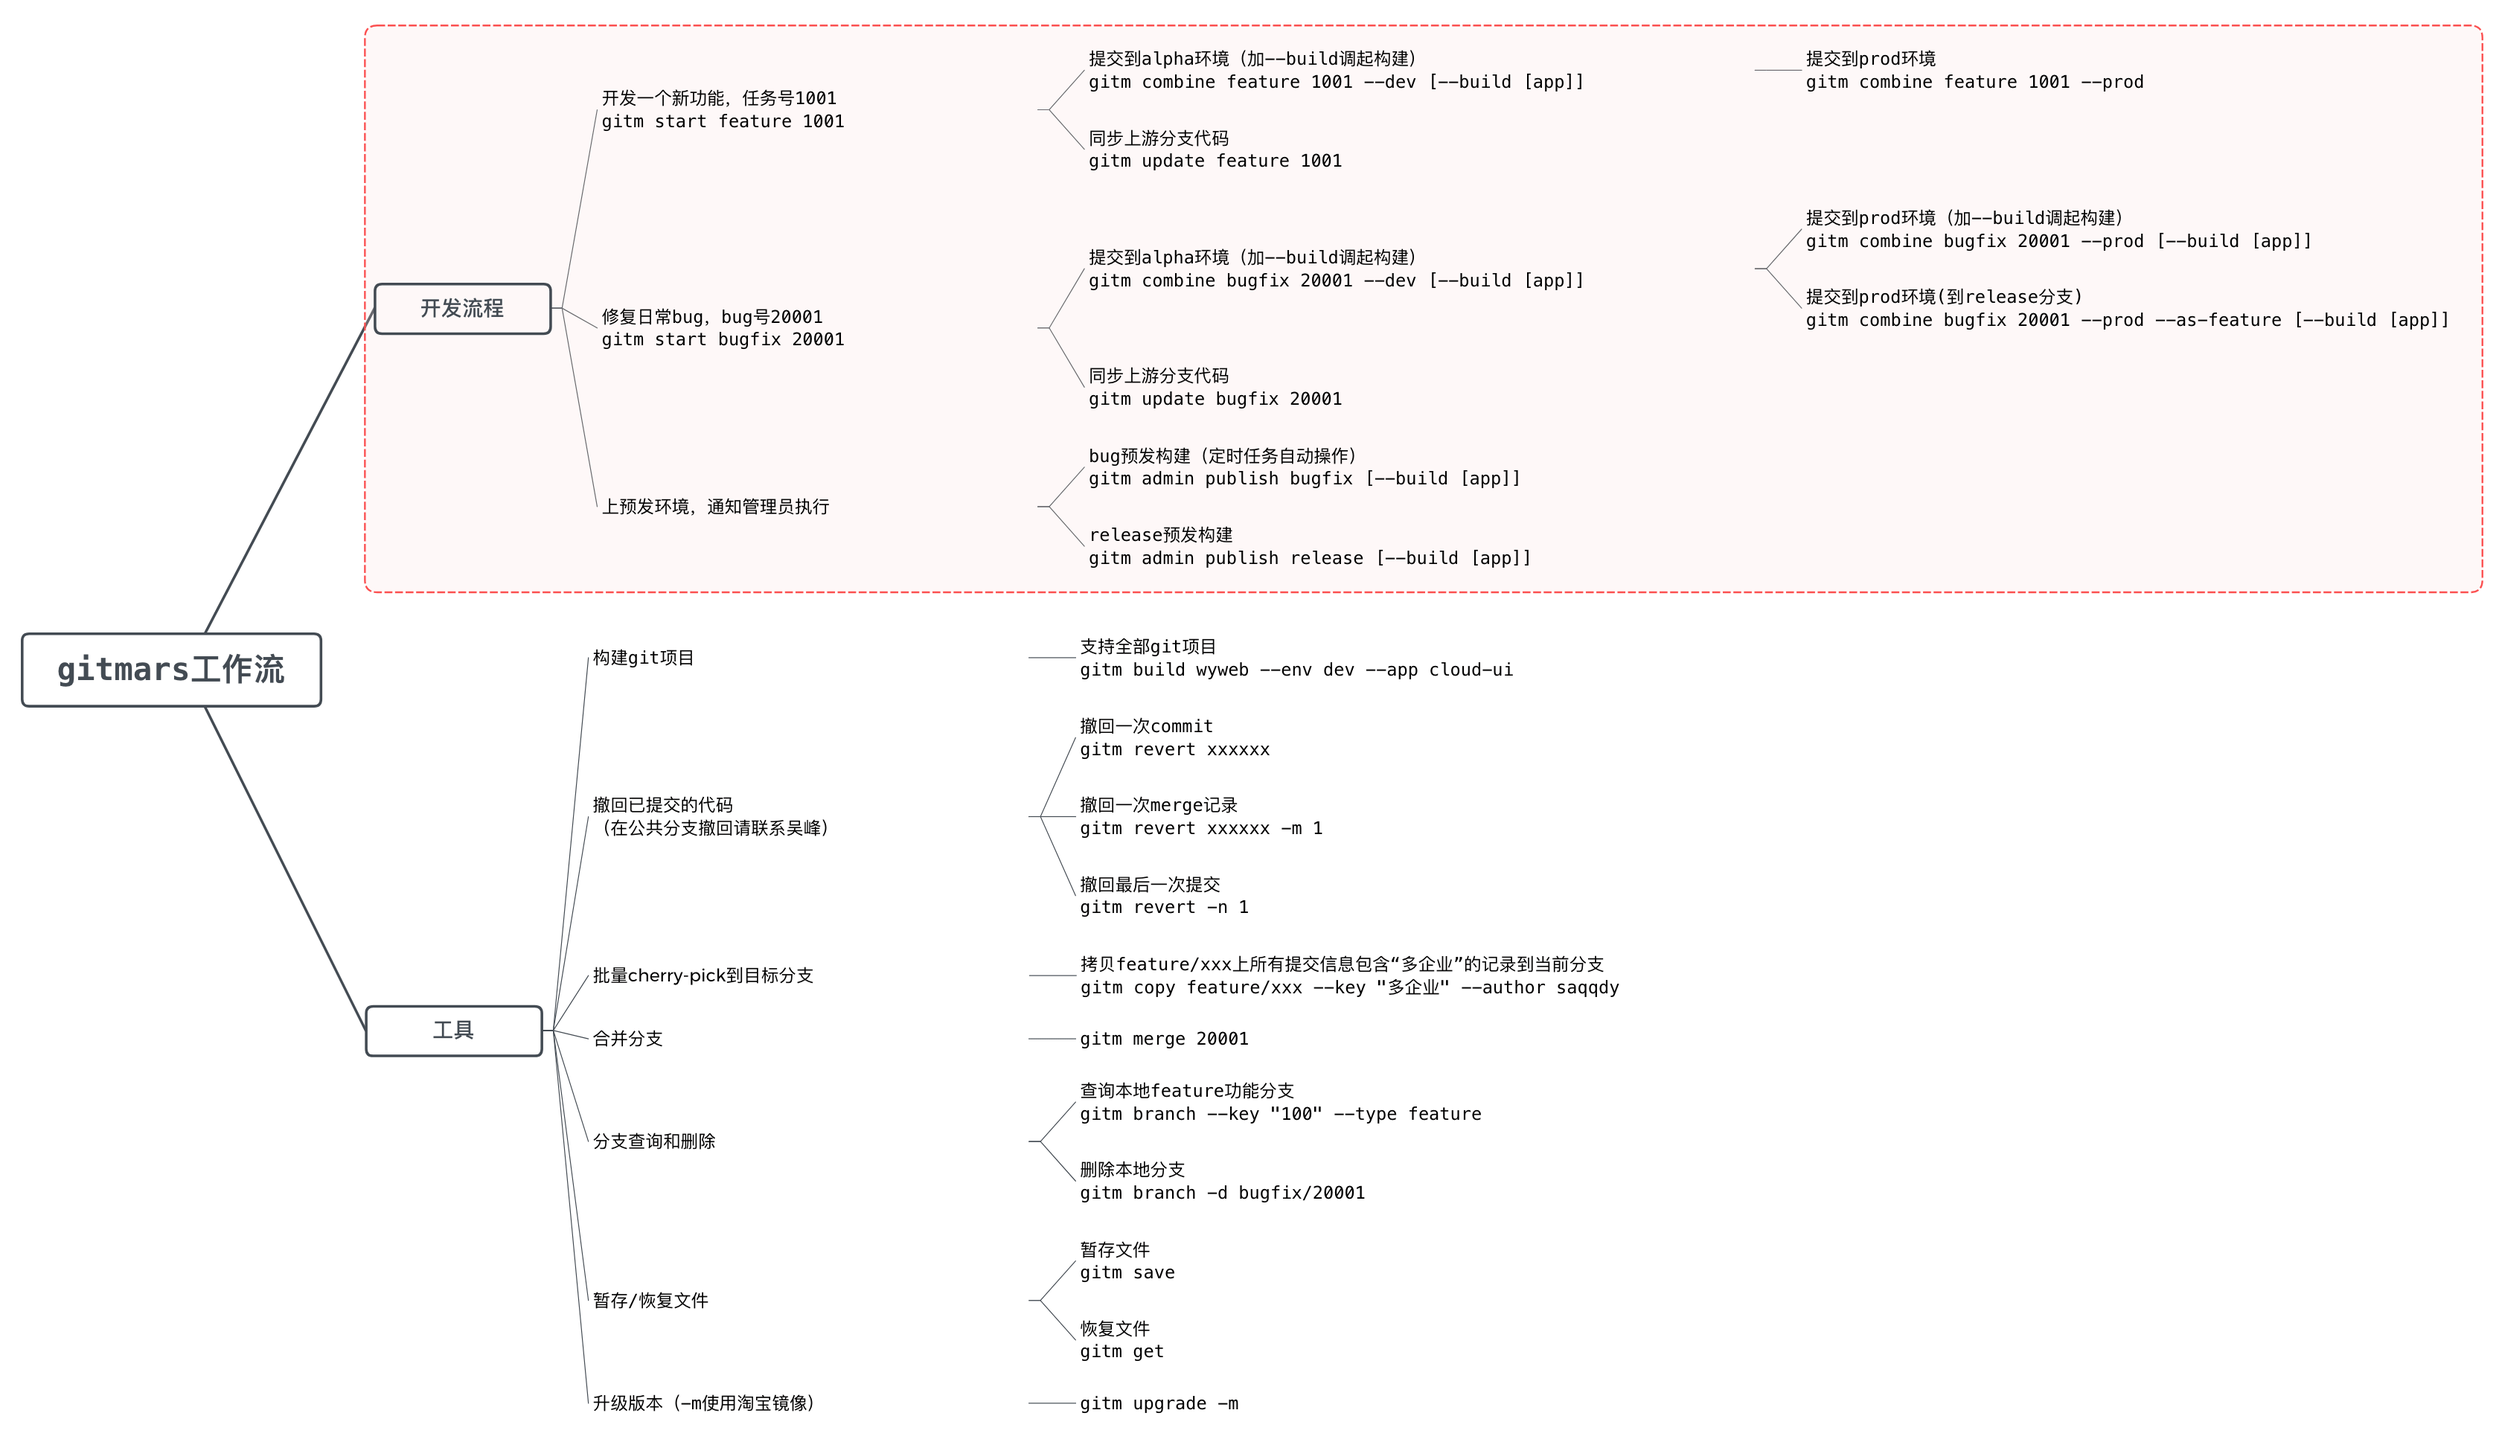
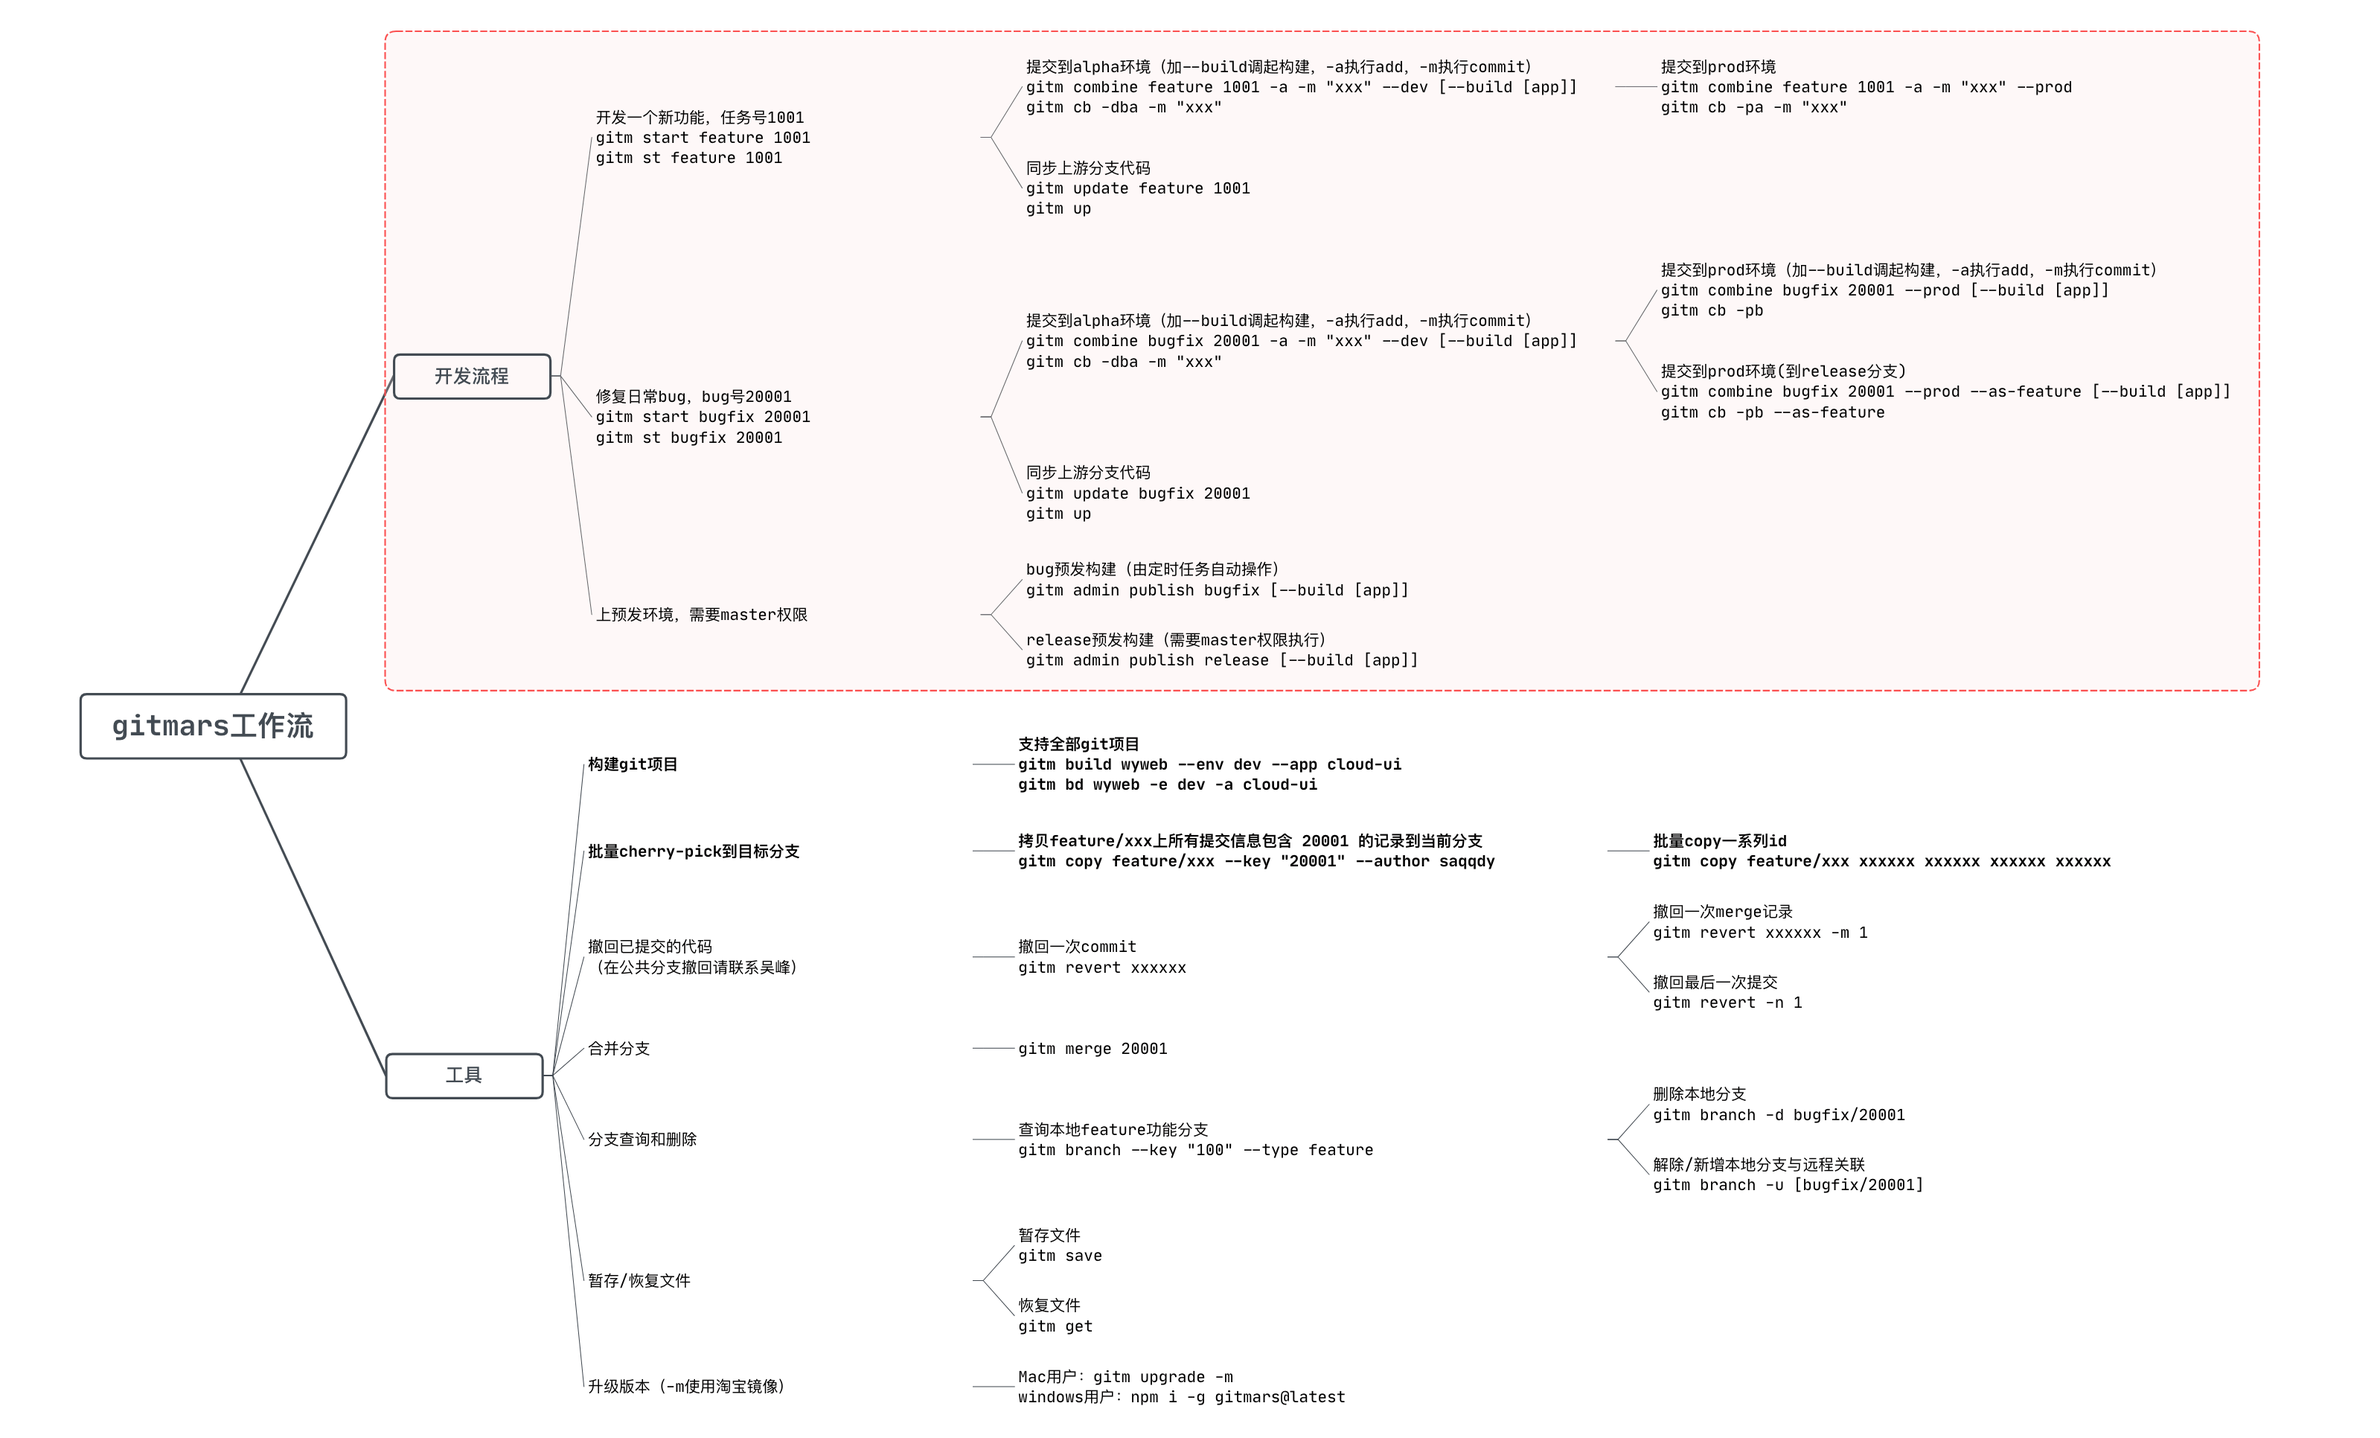
文档

diff --git a/README.md b/README.md
@@ -28,7 +28,8 @@ gitm init
 gitm config list [option]
 
 # 版本升级[-m --mirror]使用淘宝镜像升级
-gitm upgrade --mirror
+Mac用户：gitm upgrade -m
+windows用户：npm i -g gitmars@latest
 
 # 查看版本
 gitm -v
@@ -45,9 +46,24 @@ gitm copy -h
 
 ## gitm start
 ### 短指令：gitm st
+开始任务，创建分支
+
 ```
-# 形式：gitm start <type> <name>
+形式：gitm start <type> <name>
+```
+
+### 参数
+
+| 参数 | 说明     | 类型   | 可选值                 | 必填 | 默认 |
+| ---- | -------- | ------ | ---------------------- | ---- | ---- |
+| type | 分支类型 | String | feature/bugfix/support | 是   | -    |
+| name | 分支名称 | String | -                      | 是   | -    |
+
+* 简单使用
+
+```
 gitm start bugfix 20001
+gitm start feature 1001
 ```
 
 
@@ -99,19 +115,21 @@ gitm cb -d -b cloud-ui
 gitm combine bugfix 20001 -pd
 gitm cb bugfix 20001 -pd
 # 或者简写
-gitm combine 20001 -d
+gitm cb 20001 -d
 ```
 
 4. bugfix分支特殊情况需要合并到release时，传入--as-feature
 
 ```
 gitm combine bugfix 20001 -p --as-feature
+gitm cb -p --as-feature
 ```
 
 5. support分支提交prod时会主动同步bugfix分支和release分支，传入--no-bugfix不同步到bugfix
 
 ```
 gitm combine support 20001 -pd --no-bugfix
+gitm cb -pd --no-bugfix
 ```
 
 
@@ -203,6 +221,7 @@ gitm up --use-merge
 
 ```
 gitm merge 20001
+gitm mg 20001
 ```
 
 
@@ -274,27 +293,50 @@ gitm build wyweb --env dev --app cloud-ui
 ## gitm branch
 ### 短指令：gitm bh
 提供分支搜索和删除功能（不开放删除远程分支功能）
+
+```
+形式1：gitm branch [-k --key] [-t --type] [-r --remote]
+形式2：gitm branch [-d --delete [name]] [-D --forcedelete [name]]
+形式3：gitm branch [-u --upstream [upstream]]
+```
+
+### 传值
+
+| 名称          | 简写 | 说明                                           | 类型    | 可选值                 | 传值必填 | 默认  |
+| ------------- | ---- | ---------------------------------------------- | ------- | ---------------------- | -------- | ----- |
+| --key         | -k   | 模糊匹配关键词                                 | String  | -                      | 否       | -     |
+| --type        | -t   | 分支类型，默认查询全部                         | String  | bugfix/feature/support | 否       | -     |
+| --remote      | -r   | 是否查询远程分支                               | Boolean | -                      | 否       | false |
+| --delete      | -d   | 删除本地分支                                   | String  | -                      | 是       | -     |
+| --forcedelete | -D   | 强制删除本地分支                               | String  | -                      | 是       | -     |
+| --upstream    | -u   | 传入分支名称可绑定分支，不传分支名称则取消绑定 | String  | -                      | 否       | ''    |
+
 1. 查询本地feature功能分支
+
 ```
 # 形式：gitm branch [-k --key] [-t --type] [-r --remote]
-# key是查询关键词，type是查询的类型，有support、bugfix、feature三种，默认查询全部，remote是否查询远程分支，默认否
 gitm branch --key bug001 -r -t feature
+gitm bh -k bug001 -r -t feature
 ```
 
 2. 删除本地分支
+
 ```
 # 形式：gitm branch [-d --delete] [-D --forcedelete]
-# delete是正常删除分支，forcedelete强制删除
 gitm branch -d bugfix/bug001
+gitm bh -d bugfix/bug001
 ```
 
-3. 设置本地分支与远程分支关联
+3. 设置当前分支与远程feature/1000分支关联
+
 ```
 # 形式：gitm branch [-u --upstream [upstream]]
-# 设置当前分支与远程feature/1000分支关联
 gitm branch -u feature/1000
-# 
-# 取消当前分支与远程分支的关联
+```
+
+4. 取消当前分支与远程分支的关联
+
+```
 gitm branch -u
 ```
 
@@ -302,18 +344,39 @@ gitm branch -u
 ## gitm revert
 ### 短指令：gitm rt
 撤销当前分支的某条提交记录，如果需要撤销一条merge记录，需要传入撤销方式，1 = 保留当前分支代码；2 = 保留传入代码
+
+```
+形式1：gitm revert [commitid] [-m --mode [mode]]
+形式2：gitm revert [-n --number] [-m --mode [mode]]
+```
+
+### 参数
+
+| 参数     | 说明       | 类型   | 可选值 | 必填 | 默认 |
+| -------- | ---------- | ------ | ------ | ---- | ---- |
+| commitid | 要撤回的id | String | -      | 否   | -    |
+
+### 传值
+
+| 名称     | 简写 | 说明                                                                | 类型   | 可选值 | 传值必填 | 默认  |
+| -------- | ---- | ------------------------------------------------------------------- | ------ | ------ | -------- | ----- |
+| --number | -n   | 撤回倒数N条记录，使用时不要传入commitID                             | Number | -      | 否       | false |
+| --mode   | -m   | 撤回merge记录时需要保留哪一方的代码，1=保留当前分支，2=保留传入分支 | Number | -      | 否       | -     |
+
 1. 撤销最后一次提交（或者撤销倒数第n次提交）
+
 ```
-# 形式：gitm revert [commitid] [-n --number]
-# 撤销最后一次提交
-gitm revert -n 1 --mode 1
-# 或者
-gitm revert -n 3
+# 形式：gitm revert [-n --number] [-m --mode [mode]]
+gitm revert -n 1
+gitm rt -n 3
 ```
+
 2. 撤销某条提交id
+
 ```
 # 形式：gitm revert [commitid] [-m --mode [mode]]
-gitm revert xxxxxx -m 1
+gitm revert xxxxxx --mode 1
+gitm rt xxxxxx -m 1
 ```
 
 
@@ -410,16 +473,47 @@ gitm get "test login"
 ## gitm upgrade
 ### 短指令：gitm ug
 升级gitmars版本，可输入version指定版本，选填，默认安装最新版
+
 ```
-# 输入-m或者--mirror表示使用淘宝镜像升级
-gitm upgrade [version] [-m --mirror]
+形式：gitm upgrade [version] [-m --mirror]
+```
+
+### 参数
+
+| 参数    | 说明           | 类型   | 可选值 | 必填 | 默认 |
+| ------- | -------------- | ------ | ------ | ---- | ---- |
+| version | 要升级的版本号 | String | -      | 否   | -    |
+
+### 传值
+
+| 名称     | 简写 | 说明                 | 类型    | 可选值 | 传值必填 | 默认  |
+| -------- | ---- | -------------------- | ------- | ------ | -------- | ----- |
+| --mirror | -m   | 是否使用淘宝镜像升级 | Boolean | -      | 否       | false |
+
+* 简单使用
+
+```
+gitm upgrade --mirror
+gitm ug -m
 ```
 
 
 ## gitm clean
 清理gitmars缓存和本地配置，输入--force同时清理本地配置文件（慎用）
+
 ```
-# 形式：gitm clean [-f --force]
+形式：gitm clean [-f --force]
+```
+
+### 传值
+
+| 名称    | 简写 | 说明                                  | 类型    | 可选值 | 传值必填 | 默认  |
+| ------- | ---- | ------------------------------------- | ------- | ------ | -------- | ----- |
+| --force | -f   | 是否清理gitmars配置文件（请谨慎使用） | Boolean | -      | 否       | false |
+
+* 简单使用
+
+```
 gitm clean
 ```
 
@@ -428,45 +522,109 @@ gitm clean
 # 管理员
 ## gitm admin create
 创建release、bugfix、support和develop分支
+
 ```
-# 形式：gitm admin create <type>
+形式：gitm admin create <type>
+```
+
+### 参数
+
+| 参数 | 说明     | 类型   | 可选值                 | 必填 | 默认 |
+| ---- | -------- | ------ | ---------------------- | ---- | ---- |
+| type | 分支类型 | String | bugfix/release/develop | 是   | -    |
+
+* 创建release分支
+
+```
 gitm admin create release
 ```
 
 
 ## gitm admin publish
-发版操作
+发布操作
+
 ```
-# 形式：gitm admin publish <type> [-c --combine] [--use-rebase] [-p --prod] [-b --build [build]] [-p --postmsg]
-# 传入combine时合并release之后会把release同步到bugfix
-# 传入rebase使用release方法合并
-# 当需要发布bugfix时，传入prod会把bugfix同步到master，不传则不合并
-# postmsg：传入时有配置postmsg的指令处理消息会推送到云之家
+形式：gitm admin publish <type> [-c --combine] [--use-rebase] [-p --prod] [-b --build [build]] [-p --postmsg]
+```
+
+### 参数
+
+| 参数 | 说明     | 类型   | 可选值                 | 必填 | 默认 |
+| ---- | -------- | ------ | ---------------------- | ---- | ---- |
+| type | 分支类型 | String | bugfix/release/support | 是   | -    |
+
+### 传值
+
+| 名称         | 简写 | 说明                                                                  | 类型    | 可选值 | 传值必填 | 默认  |
+| ------------ | ---- | --------------------------------------------------------------------- | ------- | ------ | -------- | ----- |
+| --combine    | -c   | 是否在合并release之后会把release同步到bugfix（仅在合并release时可用） | Boolean | -      | 否       | false |
+| --prod       | -p   | 发布bugfix时，是否需要把bugfix合并到master                            | Boolean | -      | 否       | false |
+| --build      | -b   | 是否使用淘宝镜像升级                                                  | Boolean | -      | 否       | false |
+| --use-rebase |      | 是否使用rebase执行合并                                                | Boolean | -      | 否       | false |
+| --postmsg    | -p   | 是否需要发送指令处理消息到云之家                                      | Boolean | -      | 否       | false |
+
+1. 合并release代码到预发环境
+
+```
 gitm admin publish release
 ```
 
+2. 发布并执行构建
+
 ```
-# 发布并执行构建全部
+# 构建全部
 gitm admin publish release --build
-# 发布并执行构建cloud-ui
+gitm admin publish release -b
+# 仅构建cloud-ui
 gitm admin publish release --build cloud-ui
+gitm admin publish release -b cloud-ui
 ```
 
 
 ## gitm admin update
 更新release、bugfix、support分支代码，默认走merge方法
+
 ```
-# 形式：gitm admin update <type> [--use-rebase] [-m --mode [mode]] [-p --postmsg]
-# mode：出现冲突时，保留传入代码还是保留当前代码；1=采用当前 2=采用传入；默认为 0=手动处理。本参数不可与--use-rebase同时使用
-# release：传入rebase使用release方法合并，默认使用merge
-# postmsg：传入时有配置postmsg的指令处理消息会推送到云之家
+形式：gitm admin update <type> [--use-rebase] [-m --mode [mode]] [-p --postmsg]
+```
+
+### 参数
+
+| 参数 | 说明     | 类型   | 可选值                 | 必填 | 默认 |
+| ---- | -------- | ------ | ---------------------- | ---- | ---- |
+| type | 分支类型 | String | bugfix/release/support | 是   | -    |
+
+### 传值
+
+| 名称         | 简写 | 说明                                                                                                                 | 类型    | 可选值 | 传值必填 | 默认  |
+| ------------ | ---- | -------------------------------------------------------------------------------------------------------------------- | ------- | ------ | -------- | ----- |
+| --mode       | -m   | 出现冲突时，保留传入代码还是保留当前代码；1=采用当前 2=采用传入；默认为 0=手动处理。本参数不可与--use-rebase同时使用 | Number  | 0/1/2  | 否       | 0     |
+| --use-rebase |      | 是否使用rebase执行同步                                                                                               | Boolean | -      | 否       | false |
+| --postmsg    | -p   | 是否需要发送指令处理消息到云之家                                                                                     | Boolean | -      | 否       | false |
+
+1. 更新bug分支代码
+
+```
 gitm admin update bugfix -m 2
+gitm admin up bugfix -m 2
 ```
 
 
 ## gitm admin clean
 Jenkins构建清理git分支专用，可传入release、bugfix、develop分支代码
+
 ```
-# 形式：gitm admin clean <type>
+形式：gitm admin clean <type>
+```
+
+### 参数
+
+| 参数 | 说明     | 类型   | 可选值                        | 必填 | 默认 |
+| ---- | -------- | ------ | ----------------------------- | ---- | ---- |
+| type | 分支类型 | String | bugfix/release/support/master | 是   | -    |
+
+* 清理分支
+
+```
 gitm admin clean bugfix
 ```
